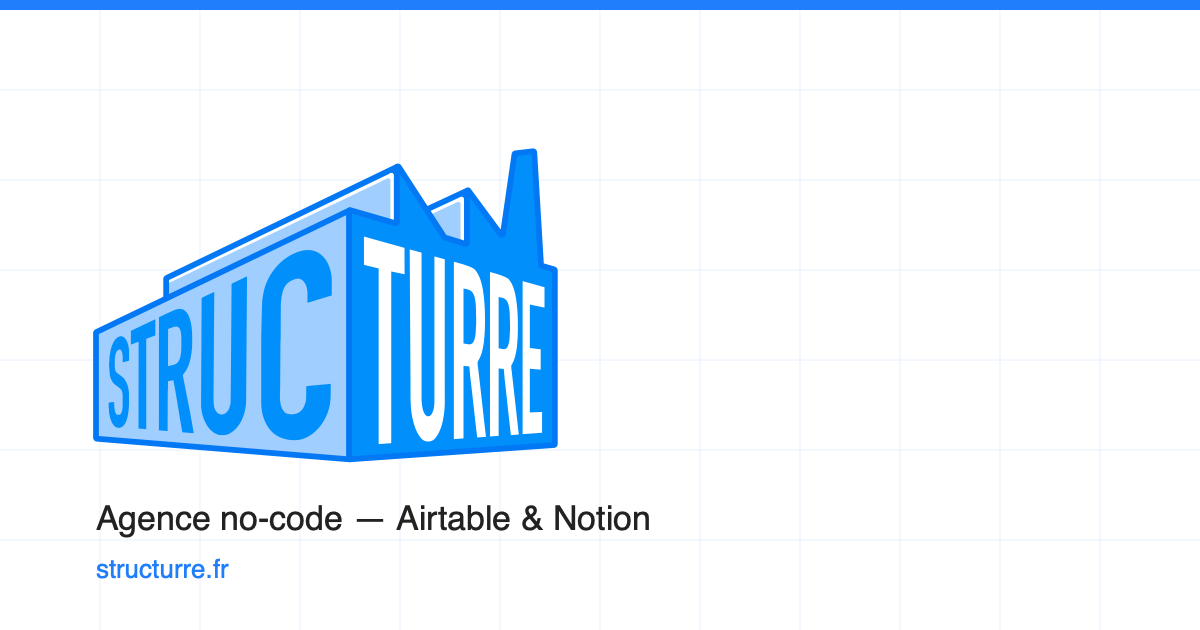
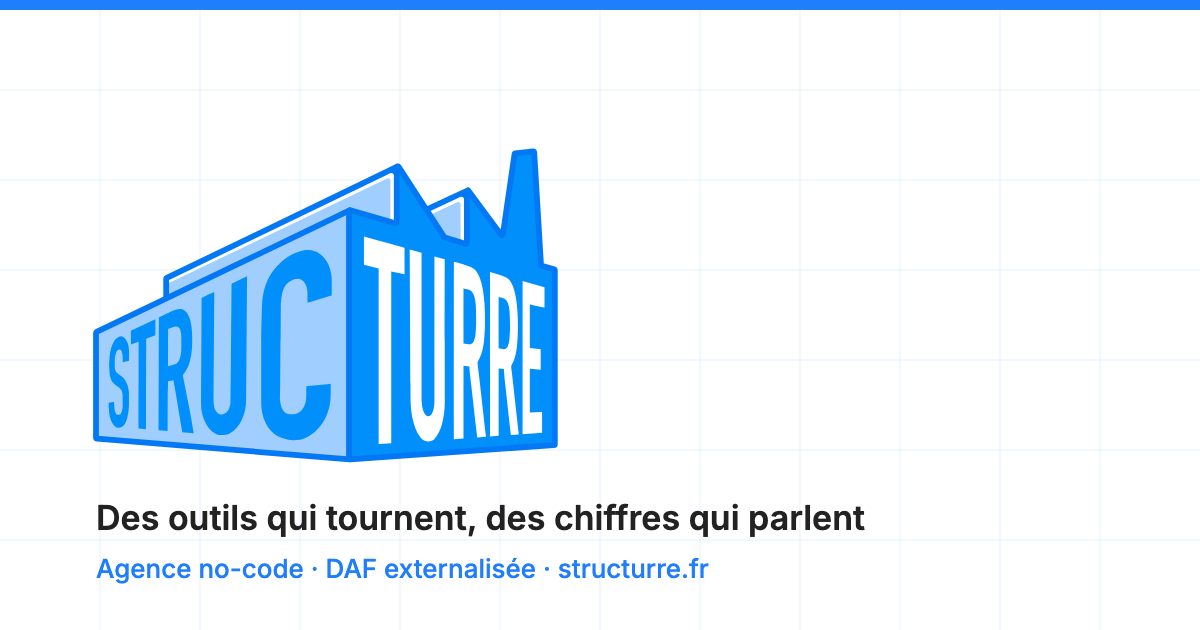
Adopte le slogan « Des outils qui tournent, des chiffres qui parlent »
Le nouveau slogan, qui intègre la DAF externalisée, devient le titre de
l'accueil et ouvre la présentation du pied de page sur toutes les pages.
Il figure aussi sur l'image de partage (SVG et PNG régénéré), dans son
texte alternatif et dans les données structurées.

Ajoute aussi un lien vers les conditions générales de la mission sous le
tarif, en haut de la page DAF externalisée.

Changed region(s): [[0.0617, 0.8746, 0.5858, 0.9349], [0.0617, 0.7841, 0.74, 0.8444]]

diff --git a/index.html b/index.html
@@ -18,7 +18,7 @@
 <meta property="og:image" content="https://structurre.fr/assets/img/og-image.png">
 <meta property="og:image:width" content="1200">
 <meta property="og:image:height" content="630">
-<meta property="og:image:alt" content="Structurre — agence no-code Airtable et Notion">
+<meta property="og:image:alt" content="Structurre — des outils qui tournent, des chiffres qui parlent">
 <meta name="twitter:card" content="summary_large_image">
 
 <link rel="icon" href="/assets/img/favicon.svg" type="image/svg+xml">
@@ -106,7 +106,7 @@
       <div>
         <p class="surtitre">Agence no-code · Airtable &amp; Notion · DAF externalisée</p>
         <h1 class="mt-4 text-4xl font-extrabold leading-tight tracking-tight sm:text-5xl lg:text-6xl">
-          Vos process deviennent des <span class="accent">outils que l'équipe utilise</span>
+          Des outils qui tournent, <span class="accent">des chiffres qui parlent</span>
         </h1>
         <p class="mt-6 max-w-xl text-lg leading-relaxed texte-doux">
           Nous remplaçons les tableurs qui débordent et les fichiers éparpillés par une
@@ -375,6 +375,7 @@
   "@context": "https://schema.org",
   "@type": "ProfessionalService",
   "name": "Structurre",
+  "slogan": "Des outils qui tournent, des chiffres qui parlent",
   "url": "https://structurre.fr",
   "logo": "https://structurre.fr/assets/img/logo.svg",
   "image": "https://structurre.fr/assets/img/og-image.png",
@@ -430,8 +431,9 @@
           <img src="/assets/img/logo.svg" alt="Structurre" width="405" height="275" class="h-14 w-auto">
         </a>
         <p class="mt-5 max-w-sm text-sm leading-relaxed texte-doux">
-          Agence no-code. Nous concevons vos applications Airtable et Notion, puis nous
-          formons les équipes qui les utilisent au quotidien.
+          Des outils qui tournent, des chiffres qui parlent. Nous concevons vos
+          applications Airtable et Notion, formons les équipes qui les utilisent et pilotons
+          vos chiffres en DAF externalisée.
         </p>
       </div>
 

diff --git a/daf-externalisee.html b/daf-externalisee.html
@@ -18,7 +18,7 @@
 <meta property="og:image" content="https://structurre.fr/assets/img/og-image.png">
 <meta property="og:image:width" content="1200">
 <meta property="og:image:height" content="630">
-<meta property="og:image:alt" content="Structurre — agence no-code Airtable et Notion">
+<meta property="og:image:alt" content="Structurre — des outils qui tournent, des chiffres qui parlent">
 <meta name="twitter:card" content="summary_large_image">
 
 <link rel="icon" href="/assets/img/favicon.svg" type="image/svg+xml">
@@ -119,6 +119,10 @@
         <span class="prix text-3xl sm:text-4xl">160 €</span>
         <span class="prix-unite text-base">HT de l'heure, sans abonnement</span>
       </p>
+      <a href="/conditions-daf" class="lien-fleche mt-4 text-sm">
+        Conditions générales de la mission de DAF externalisée
+        <svg class="h-4 w-4" viewBox="0 0 20 20" fill="currentColor" aria-hidden="true"><path d="M10.7 3.3a1 1 0 0 0-1.4 1.4L13.6 9H3a1 1 0 1 0 0 2h10.6l-4.3 4.3a1 1 0 1 0 1.4 1.4l6-6a1 1 0 0 0 0-1.4l-6-6Z"/></svg>
+      </a>
     </div>
   </section>
 
@@ -351,8 +355,9 @@
           <img src="/assets/img/logo.svg" alt="Structurre" width="405" height="275" class="h-14 w-auto">
         </a>
         <p class="mt-5 max-w-sm text-sm leading-relaxed texte-doux">
-          Agence no-code. Nous concevons vos applications Airtable et Notion, puis nous
-          formons les équipes qui les utilisent au quotidien.
+          Des outils qui tournent, des chiffres qui parlent. Nous concevons vos
+          applications Airtable et Notion, formons les équipes qui les utilisent et pilotons
+          vos chiffres en DAF externalisée.
         </p>
       </div>
 

diff --git a/404.html b/404.html
@@ -18,7 +18,7 @@
 <meta property="og:image" content="https://structurre.fr/assets/img/og-image.png">
 <meta property="og:image:width" content="1200">
 <meta property="og:image:height" content="630">
-<meta property="og:image:alt" content="Structurre — agence no-code Airtable et Notion">
+<meta property="og:image:alt" content="Structurre — des outils qui tournent, des chiffres qui parlent">
 <meta name="twitter:card" content="summary_large_image">
 
 <link rel="icon" href="/assets/img/favicon.svg" type="image/svg+xml">
@@ -120,8 +120,9 @@
           <img src="/assets/img/logo.svg" alt="Structurre" width="405" height="275" class="h-14 w-auto">
         </a>
         <p class="mt-5 max-w-sm text-sm leading-relaxed texte-doux">
-          Agence no-code. Nous concevons vos applications Airtable et Notion, puis nous
-          formons les équipes qui les utilisent au quotidien.
+          Des outils qui tournent, des chiffres qui parlent. Nous concevons vos
+          applications Airtable et Notion, formons les équipes qui les utilisent et pilotons
+          vos chiffres en DAF externalisée.
         </p>
       </div>
 

diff --git a/a-propos.html b/a-propos.html
@@ -18,7 +18,7 @@
 <meta property="og:image" content="https://structurre.fr/assets/img/og-image.png">
 <meta property="og:image:width" content="1200">
 <meta property="og:image:height" content="630">
-<meta property="og:image:alt" content="Structurre — agence no-code Airtable et Notion">
+<meta property="og:image:alt" content="Structurre — des outils qui tournent, des chiffres qui parlent">
 <meta name="twitter:card" content="summary_large_image">
 
 <link rel="icon" href="/assets/img/favicon.svg" type="image/svg+xml">
@@ -305,8 +305,9 @@
           <img src="/assets/img/logo.svg" alt="Structurre" width="405" height="275" class="h-14 w-auto">
         </a>
         <p class="mt-5 max-w-sm text-sm leading-relaxed texte-doux">
-          Agence no-code. Nous concevons vos applications Airtable et Notion, puis nous
-          formons les équipes qui les utilisent au quotidien.
+          Des outils qui tournent, des chiffres qui parlent. Nous concevons vos
+          applications Airtable et Notion, formons les équipes qui les utilisent et pilotons
+          vos chiffres en DAF externalisée.
         </p>
       </div>
 

diff --git a/cas-clients.html b/cas-clients.html
@@ -18,7 +18,7 @@
 <meta property="og:image" content="https://structurre.fr/assets/img/og-image.png">
 <meta property="og:image:width" content="1200">
 <meta property="og:image:height" content="630">
-<meta property="og:image:alt" content="Structurre — agence no-code Airtable et Notion">
+<meta property="og:image:alt" content="Structurre — des outils qui tournent, des chiffres qui parlent">
 <meta name="twitter:card" content="summary_large_image">
 
 <link rel="icon" href="/assets/img/favicon.svg" type="image/svg+xml">
@@ -594,8 +594,9 @@
           <img src="/assets/img/logo.svg" alt="Structurre" width="405" height="275" class="h-14 w-auto">
         </a>
         <p class="mt-5 max-w-sm text-sm leading-relaxed texte-doux">
-          Agence no-code. Nous concevons vos applications Airtable et Notion, puis nous
-          formons les équipes qui les utilisent au quotidien.
+          Des outils qui tournent, des chiffres qui parlent. Nous concevons vos
+          applications Airtable et Notion, formons les équipes qui les utilisent et pilotons
+          vos chiffres en DAF externalisée.
         </p>
       </div>
 

diff --git a/conditions-daf.html b/conditions-daf.html
@@ -18,7 +18,7 @@
 <meta property="og:image" content="https://structurre.fr/assets/img/og-image.png">
 <meta property="og:image:width" content="1200">
 <meta property="og:image:height" content="630">
-<meta property="og:image:alt" content="Structurre — agence no-code Airtable et Notion">
+<meta property="og:image:alt" content="Structurre — des outils qui tournent, des chiffres qui parlent">
 <meta name="twitter:card" content="summary_large_image">
 
 <link rel="icon" href="/assets/img/favicon.svg" type="image/svg+xml">
@@ -343,8 +343,9 @@
           <img src="/assets/img/logo.svg" alt="Structurre" width="405" height="275" class="h-14 w-auto">
         </a>
         <p class="mt-5 max-w-sm text-sm leading-relaxed texte-doux">
-          Agence no-code. Nous concevons vos applications Airtable et Notion, puis nous
-          formons les équipes qui les utilisent au quotidien.
+          Des outils qui tournent, des chiffres qui parlent. Nous concevons vos
+          applications Airtable et Notion, formons les équipes qui les utilisent et pilotons
+          vos chiffres en DAF externalisée.
         </p>
       </div>
 

diff --git a/contact.html b/contact.html
@@ -18,7 +18,7 @@
 <meta property="og:image" content="https://structurre.fr/assets/img/og-image.png">
 <meta property="og:image:width" content="1200">
 <meta property="og:image:height" content="630">
-<meta property="og:image:alt" content="Structurre — agence no-code Airtable et Notion">
+<meta property="og:image:alt" content="Structurre — des outils qui tournent, des chiffres qui parlent">
 <meta name="twitter:card" content="summary_large_image">
 
 <link rel="icon" href="/assets/img/favicon.svg" type="image/svg+xml">
@@ -228,8 +228,9 @@
           <img src="/assets/img/logo.svg" alt="Structurre" width="405" height="275" class="h-14 w-auto">
         </a>
         <p class="mt-5 max-w-sm text-sm leading-relaxed texte-doux">
-          Agence no-code. Nous concevons vos applications Airtable et Notion, puis nous
-          formons les équipes qui les utilisent au quotidien.
+          Des outils qui tournent, des chiffres qui parlent. Nous concevons vos
+          applications Airtable et Notion, formons les équipes qui les utilisent et pilotons
+          vos chiffres en DAF externalisée.
         </p>
       </div>
 

diff --git a/formation.html b/formation.html
@@ -18,7 +18,7 @@
 <meta property="og:image" content="https://structurre.fr/assets/img/og-image.png">
 <meta property="og:image:width" content="1200">
 <meta property="og:image:height" content="630">
-<meta property="og:image:alt" content="Structurre — agence no-code Airtable et Notion">
+<meta property="og:image:alt" content="Structurre — des outils qui tournent, des chiffres qui parlent">
 <meta name="twitter:card" content="summary_large_image">
 
 <link rel="icon" href="/assets/img/favicon.svg" type="image/svg+xml">
@@ -291,8 +291,9 @@
           <img src="/assets/img/logo.svg" alt="Structurre" width="405" height="275" class="h-14 w-auto">
         </a>
         <p class="mt-5 max-w-sm text-sm leading-relaxed texte-doux">
-          Agence no-code. Nous concevons vos applications Airtable et Notion, puis nous
-          formons les équipes qui les utilisent au quotidien.
+          Des outils qui tournent, des chiffres qui parlent. Nous concevons vos
+          applications Airtable et Notion, formons les équipes qui les utilisent et pilotons
+          vos chiffres en DAF externalisée.
         </p>
       </div>
 

diff --git a/mentions-legales.html b/mentions-legales.html
@@ -18,7 +18,7 @@
 <meta property="og:image" content="https://structurre.fr/assets/img/og-image.png">
 <meta property="og:image:width" content="1200">
 <meta property="og:image:height" content="630">
-<meta property="og:image:alt" content="Structurre — agence no-code Airtable et Notion">
+<meta property="og:image:alt" content="Structurre — des outils qui tournent, des chiffres qui parlent">
 <meta name="twitter:card" content="summary_large_image">
 
 <link rel="icon" href="/assets/img/favicon.svg" type="image/svg+xml">
@@ -175,8 +175,9 @@
           <img src="/assets/img/logo.svg" alt="Structurre" width="405" height="275" class="h-14 w-auto">
         </a>
         <p class="mt-5 max-w-sm text-sm leading-relaxed texte-doux">
-          Agence no-code. Nous concevons vos applications Airtable et Notion, puis nous
-          formons les équipes qui les utilisent au quotidien.
+          Des outils qui tournent, des chiffres qui parlent. Nous concevons vos
+          applications Airtable et Notion, formons les équipes qui les utilisent et pilotons
+          vos chiffres en DAF externalisée.
         </p>
       </div>
 

diff --git a/outils.html b/outils.html
@@ -18,7 +18,7 @@
 <meta property="og:image" content="https://structurre.fr/assets/img/og-image.png">
 <meta property="og:image:width" content="1200">
 <meta property="og:image:height" content="630">
-<meta property="og:image:alt" content="Structurre — agence no-code Airtable et Notion">
+<meta property="og:image:alt" content="Structurre — des outils qui tournent, des chiffres qui parlent">
 <meta name="twitter:card" content="summary_large_image">
 
 <link rel="icon" href="/assets/img/favicon.svg" type="image/svg+xml">
@@ -288,8 +288,9 @@
           <img src="/assets/img/logo.svg" alt="Structurre" width="405" height="275" class="h-14 w-auto">
         </a>
         <p class="mt-5 max-w-sm text-sm leading-relaxed texte-doux">
-          Agence no-code. Nous concevons vos applications Airtable et Notion, puis nous
-          formons les équipes qui les utilisent au quotidien.
+          Des outils qui tournent, des chiffres qui parlent. Nous concevons vos
+          applications Airtable et Notion, formons les équipes qui les utilisent et pilotons
+          vos chiffres en DAF externalisée.
         </p>
       </div>
 

diff --git a/services.html b/services.html
@@ -18,7 +18,7 @@
 <meta property="og:image" content="https://structurre.fr/assets/img/og-image.png">
 <meta property="og:image:width" content="1200">
 <meta property="og:image:height" content="630">
-<meta property="og:image:alt" content="Structurre — agence no-code Airtable et Notion">
+<meta property="og:image:alt" content="Structurre — des outils qui tournent, des chiffres qui parlent">
 <meta name="twitter:card" content="summary_large_image">
 
 <link rel="icon" href="/assets/img/favicon.svg" type="image/svg+xml">
@@ -323,8 +323,9 @@
           <img src="/assets/img/logo.svg" alt="Structurre" width="405" height="275" class="h-14 w-auto">
         </a>
         <p class="mt-5 max-w-sm text-sm leading-relaxed texte-doux">
-          Agence no-code. Nous concevons vos applications Airtable et Notion, puis nous
-          formons les équipes qui les utilisent au quotidien.
+          Des outils qui tournent, des chiffres qui parlent. Nous concevons vos
+          applications Airtable et Notion, formons les équipes qui les utilisent et pilotons
+          vos chiffres en DAF externalisée.
         </p>
       </div>
 

diff --git a/tarifs.html b/tarifs.html
@@ -18,7 +18,7 @@
 <meta property="og:image" content="https://structurre.fr/assets/img/og-image.png">
 <meta property="og:image:width" content="1200">
 <meta property="og:image:height" content="630">
-<meta property="og:image:alt" content="Structurre — agence no-code Airtable et Notion">
+<meta property="og:image:alt" content="Structurre — des outils qui tournent, des chiffres qui parlent">
 <meta name="twitter:card" content="summary_large_image">
 
 <link rel="icon" href="/assets/img/favicon.svg" type="image/svg+xml">
@@ -415,8 +415,9 @@
           <img src="/assets/img/logo.svg" alt="Structurre" width="405" height="275" class="h-14 w-auto">
         </a>
         <p class="mt-5 max-w-sm text-sm leading-relaxed texte-doux">
-          Agence no-code. Nous concevons vos applications Airtable et Notion, puis nous
-          formons les équipes qui les utilisent au quotidien.
+          Des outils qui tournent, des chiffres qui parlent. Nous concevons vos
+          applications Airtable et Notion, formons les équipes qui les utilisent et pilotons
+          vos chiffres en DAF externalisée.
         </p>
       </div>
 
